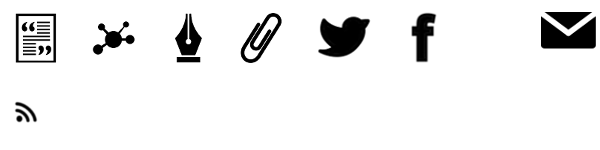
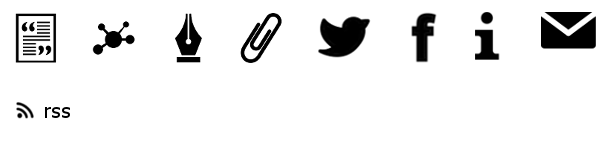
design revamped, nav and content restructed. feeling good

Changed region(s): [[0.78, 0.1867, 0.84, 0.4], [0.0, 0.6933, 0.12, 0.8267], [0.78, 0.08, 0.84, 0.16]]

diff --git a/index.html b/index.html
@@ -28,10 +28,10 @@
 	@import url(http://reset5.googlecode.com/hg/reset.min.css);
 	 
 	body{
-		color: #000;
+		color: #242323;
 		font-family: 'Arbutus Slab', 'Open Sans', serif;
 	}
-	a{color: #000;}
+	a{color: #242323;}
 		a:hover{}
 	ul{list-style-type: none;}
 
@@ -52,37 +52,38 @@
 		position: absolute;
 		display: block;
 		width: 100%;
-		background: {{authorBarsColor}};
+		background: #fff;
 
-		opacity: 0.7;
+		opacity: 0.9;
 		transition: opacity .25s ease-in-out;
 		-moz-transition: opacity .25s ease-in-out;
 		-webkit-transition: opacity .25s ease-in-out;
 	}
-		.bar:hover{opacity: 0.7;}
 	
 	#container>header{
 		top: 0;
 		border-bottom: 1px solid #555;
 		text-align: center;
+		box-shadow: 0px 3px 10px #555;
 	}
 		header h1{
 			padding-top: 15px;
 			font-size: 2em;
-			opacity: 0.8;
+			opacity: 0.9;
 		}
+			header h1 a{text-decoration: none;}
 		header h2{
 			padding: 15px 0;
 			font-size: 1.2em;
-			opacity: 0.6;
+			opacity: 0.7;
 		}
 	
 	blockquote{
 		position: absolute;
-		margin-top: 100px; margin-bottom: 70px; /* set to current header and footer height, might change */
-		padding: 0.5% 0.5% 0.5% 2%;
+		margin-top: 100px; margin-bottom: 80px; /* set to current header and footer height, might change */
+		padding: 0.6% 0.3% 0.6% 2%;
 		line-height: 1.3em;
-		opacity: 0.7;
+		opacity: 0.6;
 		
 		left: {{authorPositionLeft}}; right: {{authorPositionRight}}; top: {{authorPositionTop}}; bottom: {{authorPositionBottom}};
 		max-width: {{authorBlockWidth}};
@@ -100,14 +101,13 @@
 		footer nav{
 			overflow: hidden;
 			margin: 0 auto;
-			padding: 5px 0;
+			padding: 10px 0;
 			width: 320px;
 		}
 			footer nav a{
 				float: left; display: block;
 				width: 80px; height: 60px;
 				background: url("https://s3-eu-west-1.amazonaws.com/thequotetribune/img/icons.png") no-repeat;
-				/*background: url("assets/img/icons.png") no-repeat;*/
 				
 				opacity: 0.2;
 				transition: opacity .5s ease-in-out;
@@ -118,42 +118,47 @@
 
 				#twitter-menu-item{background-position: -302px -6px;}
 				#facebook-menu-item{background-position: -380px -7px;}
+				#register-menu-item{background-position: -150px -7px;}
 				#quotedetails-menu-item{background-position: 5px -7px;}
-				#about-menu-item{background-position: -150px -7px;}
+				#about-menu-item{position: absolute; top: 10px; right: 10px; background-position: -446px -7px;}
 
 		footer section{
 			display: none;
-			padding: 20px 30%;
-			border-top: 1px solid #aaa;
+			padding: 20px 0;
+			border-top: 1px solid #ddd;
 			background: #fff;
-			text-align: center;
+			text-align: justify;
+			line-height: 1.4em;
 		}
-			footer section article{margin-bottom: 15px;}
-			footer section h3{font-size: 2em; margin-bottom: 15px;}
-			footer section h4{margin: 5px 0 7px 0;}
-			footer section p{margin-bottom: 10px; line-height: 1.3em;}
+			footer section article{margin: 0 auto 15px auto; width: 650px;}
+			footer section h3{text-align: center; font-size: 2em; margin-bottom: 20px;}
+			footer section h4{margin: 5px 0 10px 0;}
+			footer section p{margin-bottom: 10px;}
 			footer section q{font-style: italic;}
 			footer section em{color: #666;}
 			
 			footer section#quotedetails-content{}
 				
-			footer section#about-content{}
-				footer section#about-content ul{
+			footer section#register-content{}
+				footer section#register-content ul{
 					overflow: hidden;
-					clear: both;
-					margin: 15px auto 0 auto;
-					width: 50%;
 				}
-					footer section#about-content li{
+					footer section#register-content li{
+						line-height: 2.5em;
+						clear: both;
+					}
+						footer section#register-content li div{float: left;}
+						footer section#register-content li div.tleft{width: 90px;}
+						footer section#register-content li div.tright{margin-top: -5px;}
+						
+					footer section#register-content li#rss-link a{
 						float: left;
-						width: 33%;
-						line-height: 2em;
-					}
-					footer section#about-content li#rss-link a{
 						display: block;
-						width: 30px; height: 30px; margin: 0 auto;
-						background: url("https://s3-eu-west-1.amazonaws.com/thequotetribune/img/icons.png") no-repeat -11px -99px;
+						width: 80px; height: 30px;
+						background: url("https://s3-eu-west-1.amazonaws.com/thequotetribune/img/icons.png") no-repeat -11px -97px;
+						opacity: 0.7;
 					}
+						footer section#register-content li#rss-link a:hover{opacity: 1;}
 </style>
 
 <script type="text/javascript">
@@ -287,8 +292,8 @@
 
 	<div id="container">
 		<header class="bar">
-			<h1>&mdash; THE QUOTE TRIBUNE &mdash;</h1>
-			<h2>Your daily inspirational fix</h2>
+			<h1><a href="http://thequotetribune.com">&sim; THE QUOTE TRIBUNE &sim;</a></h1>
+			<h2>your daily inspirational fix</h2>
 		</header>
 		
 		<blockquote>
@@ -300,9 +305,38 @@
 			<nav id="menu">		
 				<a href="#" id="twitter-menu-item" target="_blank"></a>
 				<a href="#" id="facebook-menu-item" target="_blank"></a>
+				<a href="#" id="register-menu-item" class="modal" alt="About"></a>
 				<a href="#" id="quotedetails-menu-item" class="modal" alt="More Information"></a>
 				<a href="#" id="about-menu-item" class="modal" alt="About"></a>
 			</nav>
+			
+			
+			
+			<section id="register-content">
+				<h3>GET THE WORDS, WRITE SOME</h3>
+				<article>
+					<h4>Want to keep fresh and up to date?</h4>
+					<ul>
+						<li>
+							<div class="tleft"><a href="https://twitter.com/thequotetribune" class="twitter-follow-button" data-show-count="false" data-show-screen-name="false">Follow @thequotetribune</a>
+	<script>!function(d,s,id){var js,fjs=d.getElementsByTagName(s)[0],p=/^http:/.test(d.location)?'http':'https';if(!d.getElementById(id)){js=d.createElement(s);js.id=id;js.src=p+'://platform.twitter.com/widgets.js';fjs.parentNode.insertBefore(js,fjs);}}(document, 'script', 'twitter-wjs');</script></div>
+							<div class="tright">Follow us to infinity (might even be beyond)</div>
+						</li>
+						<li>
+							<div class="tleft"><div class="fb-like" data-href="https://www.facebook.com/thequotetribune" data-width="60" data-height="20" data-colorscheme="light" data-layout="button_count" data-action="like" data-show-faces="false" data-send="false"></div></div>
+							<div class="tright">Like us very very much (with love and butterflies)</div>
+						</li>
+						<li id="rss-link">
+							<div class="tleft"><a href="http://feeds.feedburner.com/TheQuoteTribune" target="_blank"></a></div>
+							<div class="tright">Get yourself a feed (see what we did?)</div>
+						</li>
+					</ul>
+				</article>
+				<article>
+					<h4>Anything to share?</h4>
+					<p>We promise we will listen (maybe): <a href="mailto:sayhi@thequotetribune.com">sayhi@thequotetribune.com</a></p>
+				</article>
+			</section>
 			
 			<section id="quotedetails-content">
 				<h3>ABOUT TODAY'S QUOTE</h3>
@@ -323,32 +357,14 @@
 			</section>
 			
 			<section id="about-content">
-				<h3>ABOUT THE QUOTE TRIBUNE</h3>
+				<h3>WHAT IS THE QUOTE TRIBUNE</h3>
 				<article>
+					<h4>Everyday we give you a new awesome quote with that crazy one's handsome photo.</h4>
 					<p>Some Latin chap once said <q>"Acta Non Verba"</q>, meaning <q>"Actions, not words"</q>. Thoughtful and true.</p>
 					<p>But the thing is, words are powerful, and have always been inspirational for the most beautiful minds history has seen.</p>
 					<p>So we believe quotes of the greatest must be heard and shared. These are packaged life lessons, they make you reconsider what you do and think, they encourage your ego to grow more daring, they make you laugh.</p>
 					<p>And for us, attaching the author's photo to the words makes it even more powerful. It's a visual gong inside your brain.</p>
-					<p>This is what we do here, everyday we give you a new awesome quote with that crazy one's picture.</p>
-				</article>
-				<article>
-					<h4>Want to keep fresh and up to date?</h4>
-					<ul>
-						<li>
-							<a href="https://twitter.com/thequotetribune" class="twitter-follow-button" data-show-count="false" data-show-screen-name="false">Follow @thequotetribune</a>
-	<script>!function(d,s,id){var js,fjs=d.getElementsByTagName(s)[0],p=/^http:/.test(d.location)?'http':'https';if(!d.getElementById(id)){js=d.createElement(s);js.id=id;js.src=p+'://platform.twitter.com/widgets.js';fjs.parentNode.insertBefore(js,fjs);}}(document, 'script', 'twitter-wjs');</script>
-						</li>
-						<li id="rss-link">
-							<a href="http://feeds.feedburner.com/TheQuoteTribune" target="_blank"></a>
-						</li>
-						<li>
-							<div class="fb-like" data-href="https://www.facebook.com/thequotetribune" data-width="60" data-height="20" data-colorscheme="light" data-layout="button_count" data-action="like" data-show-faces="false" data-send="false"></div>
-						</li>
-					</ul>
-				</article>
-				<article>
-					<h4>Anything to share?</h4>
-					<p>sayhi@thequotetribune.com</p>
+					<p>So that's what we do. Simply.</p>
 				</article>
 				<article>
 					<p><em>created by <a href="http://ivanprobst.com" target="_blank">Ivan Probst</a>, quotes curated by <a href="https://www.quotesome.com/" target="_blank">Quotesome</a></em></p>

diff --git a/server.js b/server.js
@@ -1,9 +1,9 @@
 /*
 var quote =		{"id":"1234","text":"Begin - to begin is half the work, let half still remain; again begin this, and thou wilt have finished.","quotesomeUrl":"http://quoteso.me/q/9323","authorID":"marcus_aurelius"}
-var author =	{"name":"Marcus Aurelius","wikipediaRef":"Marcus_Aurelius","quotesomeUrl":"https://www.quotesome.com/authors/marcus-aurelius/quotes","photoPath":"https://s3-eu-west-1.amazonaws.com/thequotetribune/photos/marcus_aurelius.jpg","photoWidth":3256, "photoHeight":1600, "positionLeft":2, "positionTop":5, "directionSlide":"left", "blockWidth":35, "blockFontSize":48, "blockFontColor":"fff", "barsColor":"D5D7D6"};
+var author =	{"name":"Marcus Aurelius","wikipediaRef":"Marcus_Aurelius","quotesomeUrl":"https://www.quotesome.com/authors/marcus-aurelius/quotes","photoPath":"https://s3-eu-west-1.amazonaws.com/thequotetribune/photos/marcus_aurelius.jpg","photoWidth":3256, "photoHeight":1600, "positionLeft":2, "positionTop":5, "directionSlide":"left", "blockWidth":35, "blockFontSize":48, "blockFontColor":"fff", "barsColor":"fff"};
 */
 var quote =		{"id":"2345","text":"Great minds discuss ideas. Average minds discuss events. Small minds discuss people.","quotesomeUrl":"http://quoteso.me/q/224850","authorID":"eleanor_roosevelt"}
-var author =	{"name":"Eleanor Roosevelt","wikipediaRef":"Eleanor_Roosevelt","quotesomeUrl":"https://www.quotesome.com/authors/eleanor-roosevelt/quotes","photoPath":"https://s3-eu-west-1.amazonaws.com/thequotetribune/photos/eleanor_roosevelt.jpg","photoWidth":2665, "photoHeight":1203, "positionRight":3, "positionBottom":5, "directionSlide":"left", "blockWidth":35, "blockFontSize":48, "blockFontColor":"000", "blockBackgroundColor":"D5D7D6", "barsColor":"D5D7D6"};
+var author =	{"name":"Eleanor Roosevelt","wikipediaRef":"Eleanor_Roosevelt","quotesomeUrl":"https://www.quotesome.com/authors/eleanor-roosevelt/quotes","photoPath":"https://s3-eu-west-1.amazonaws.com/thequotetribune/photos/eleanor_roosevelt.jpg","photoWidth":2665, "photoHeight":1203, "positionRight":3, "positionBottom":5, "directionSlide":"left", "blockWidth":35, "blockFontSize":48, "blockFontColor":"000", "blockBackgroundColor":"fff", "barsColor":"fff"};
 
 var http = require('http');
 var fs = require('fs');
@@ -66,7 +66,7 @@ function initHome(response){
 		parseTemplate('authorThumbPath', (author.photoPath).replace(/\.[0-9a-z]+$/,"_thumb.jpg"));
 		
 		// init quote styling
-		parseTemplate('authorBarsColor', author.barsColor ? '#'+author.barsColor : '#D5D7D6');
+		parseTemplate('authorBarsColor', author.barsColor ? '#'+author.barsColor : '#fff');
 		parseTemplate('authorDirectionSlide', author.directionSlide ? author.directionSlide : 'center');
 		parseTemplate('authorBlockFontColor', author.blockFontColor ? '#'+author.blockFontColor : '#000');
 		parseTemplate('authorBlockFontSize', author.blockFontSize ? author.blockFontSize+'px' : '48px');

diff --git a/README.md b/README.md
@@ -2,9 +2,9 @@ thedailyquote
 =============
 
 tobd
-* design review
 * put quotes in a DB
 * test quote time switching
+* get config outside (default var, etc.)
 
 tobf
 * ie7+
@@ -26,3 +26,4 @@ icons ref
 * twitter: <a href="http://thenounproject.com/noun/tweet/#icon-No16224" target="_blank">Tweet</a> designed by <a href="http://thenounproject.com/joe_harrison" target="_blank">Joe Harrison</a> from The Noun Project
 * fb: <a href="http://thenounproject.com/noun/facebook/#icon-No20845" target="_blank">Facebook</a> designed by <a href="http://thenounproject.com/Luboš Volkov" target="_blank">Luboš Volkov</a> from The Noun Project
 * rss: <a href="http://thenounproject.com/noun/rss/#icon-No16950" target="_blank">RSS</a> designed by <a href="http://thenounproject.com/mollybramlet" target="_blank">Molly Bramlet</a> from The Noun Project
+* info: <a href="http://thenounproject.com/noun/information/#icon-No2824" target="_blank">Information</a> designed by <a href="http://thenounproject.com/somerandomdude" target="_blank">P.J. Onori</a> from The Noun Project
